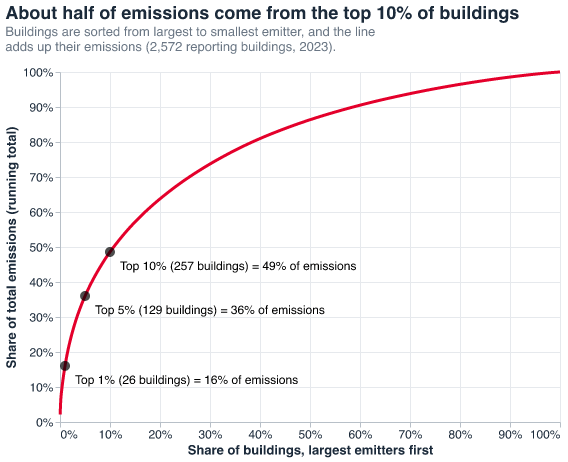
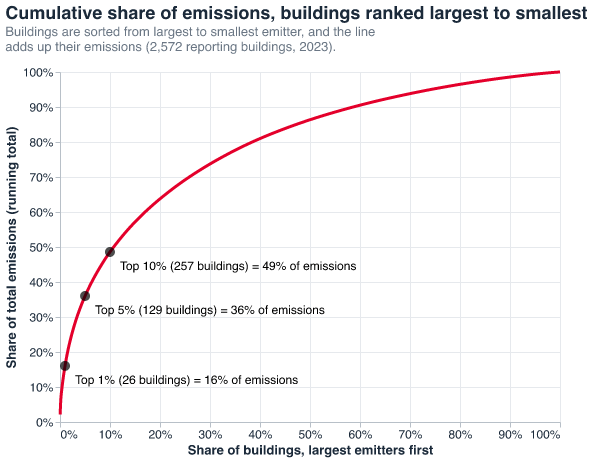
Figure 7 - update title

diff --git a/src/final_graphs.py b/src/final_graphs.py
@@ -1143,7 +1143,8 @@ def pareto_curve(df):
         width=CHART_WIDTH,
         height=LINE_CHART_HEIGHT,
         title=alt.TitleParams(
-            "About half of emissions come from the top 10% of buildings",
+            "Cumulative share of emissions, buildings ranked largest to "
+            "smallest",
             subtitle=[
                 "Buildings are sorted from largest to smallest emitter, and "
                 "the line",
